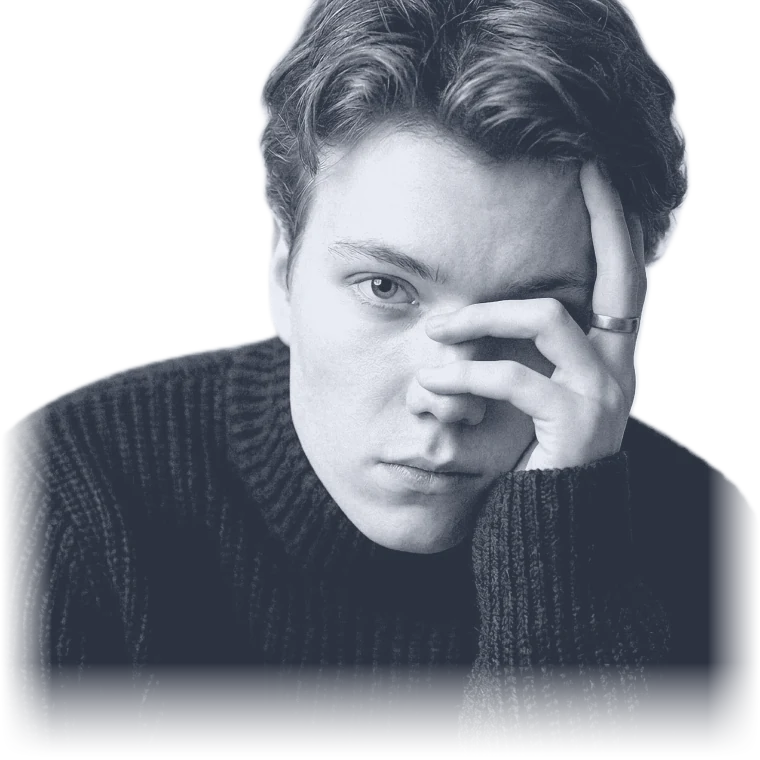
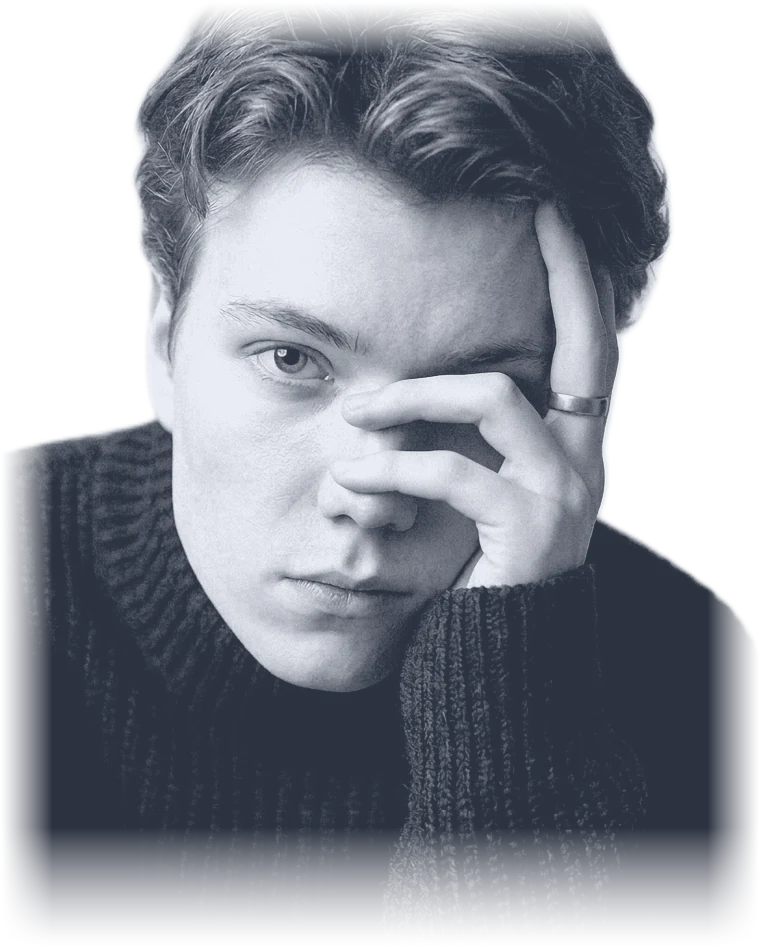
Портрет крупнее и кадром по голове, анкета — лентой под первым экраном
Квадратный кадр показывал слишком много свитера: лицо выходило
мелким, а срезанные краем исходника плечи бросались в глаза. Теперь
кадр 4:5 привязан к голове, добавлено растворение верхнего края —
в исходном фото волосы срезаны рамкой, и без этого обрез читался
ровной линией.

Анкета переехала из панели сбоку в ленту во всю ширину под первым
экраном. Панелью она делала правую колонку вдвое выше левой, и под
текстом зияла пустота; портрет занял всю колонку и стал крупнее.
Колонки ленты заданы явно — при автоподборе шесть пунктов вставали
как 5 + 1.

diff --git a/assets/css/style.css b/assets/css/style.css
@@ -327,13 +327,24 @@ a:hover { color: var(--text); }
 
 .hero__grid {
   display: grid;
-  grid-template-columns: minmax(0, 1fr) 17.5rem;
+  grid-template-columns: minmax(0, 1fr) 20rem;
   gap: clamp(1.5rem, 4vw, 3.5rem);
   align-items: start;
 }
 
+/* Портрет прижат к низу строки: так он заканчивается вровень с кнопками, а не
+   висит над пустотой. */
+.hero__grid .portrait { align-self: end; }
+
 @media (max-width: 920px) {
   .hero__grid { grid-template-columns: minmax(0, 1fr); }
+
+  /* На телефоне лицо показывается первым, до заголовка. */
+  .hero__grid .portrait {
+    order: -1;
+    align-self: start;
+    width: min(14rem, 55%);
+  }
 }
 
 .hero__name {
@@ -391,13 +402,7 @@ a:hover { color: var(--text); }
   margin-block-start: 1.9rem;
 }
 
-/* Портрет и анкета */
-
-.hero__aside {
-  display: grid;
-  gap: 1.25rem;
-  align-content: start;
-}
+/* Портрет */
 
 /* Фон у портрета вырезан, края растворяются — рамка и скругления не нужны,
    иначе он снова превращается в квадратную карточку. */
@@ -410,9 +415,9 @@ a:hover { color: var(--text); }
 .portrait::before {
   content: '';
   position: absolute;
-  inset: 6% 0 14%;
+  inset: 4% 0 12%;
   z-index: -1;
-  background: radial-gradient(58% 58% at 52% 42%, rgba(124, 124, 255, 0.22), transparent 72%);
+  background: radial-gradient(56% 56% at 52% 38%, rgba(124, 124, 255, 0.24), transparent 72%);
 }
 
 .portrait img {
@@ -421,29 +426,25 @@ a:hover { color: var(--text); }
   height: auto;
 }
 
-.factsheet {
-  border: 1px solid var(--line);
-  border-radius: 3px;
-  background: var(--panel);
-}
+/* Анкета лентой под первым экраном */
 
-.factsheet__head {
-  display: flex;
-  justify-content: space-between;
-  gap: 0.75rem;
-  padding: 0.7rem 1rem;
-  border-bottom: 1px solid var(--line);
-  font-family: var(--font-mono);
-  font-size: var(--step--2);
-  letter-spacing: 0.12em;
-  text-transform: uppercase;
-  color: var(--muted);
-}
-
-.factsheet__body {
+/* Колонки заданы явно: при автоподборе шесть пунктов вставали как 5 + 1 и
+   последний висел в отдельном ряду. */
+.facts {
   display: grid;
-  gap: 0.85rem;
-  padding: 1rem;
+  grid-template-columns: repeat(6, minmax(0, 1fr));
+  gap: 1.35rem 2rem;
+  margin-block-start: clamp(2rem, 4vw, 3rem);
+  padding-block-start: clamp(1.25rem, 3vw, 1.75rem);
+  border-block-start: 1px solid var(--line);
+}
+
+@media (max-width: 1080px) {
+  .facts { grid-template-columns: repeat(3, minmax(0, 1fr)); }
+}
+
+@media (max-width: 620px) {
+  .facts { grid-template-columns: repeat(2, minmax(0, 1fr)); }
 }
 
 .fact { display: grid; gap: 0.15rem; }

diff --git a/assets/js/app.js b/assets/js/app.js
@@ -188,22 +188,22 @@
       ]),
     ]);
 
-    var aside = el('div', { class: 'hero__aside' }, [
-      p.photo ? el('figure', { class: 'portrait' }, [
-        el('img', {
-          src: p.photo, alt: t(p.name), width: '760', height: '760',
-          decoding: 'async',
-        }),
-      ]) : null,
-      buildFactsheet(),
-    ]);
+    var portrait = p.photo ? el('figure', { class: 'portrait' }, [
+      el('img', {
+        src: p.photo, alt: t(p.name), width: '760', height: '950',
+        decoding: 'async',
+      }),
+    ]) : null;
 
     return el('section', { class: 'hero' }, [
-      el('div', { class: 'wrap hero__grid' }, [left, aside]),
+      el('div', { class: 'wrap hero__grid' }, [left, portrait]),
+      buildFacts(),
     ]);
   }
 
-  function buildFactsheet() {
+  /* Анкета лентой во всю ширину под первым экраном. Панелью сбоку она делала
+     правую колонку вдвое выше левой, и под текстом зияла пустота. */
+  function buildFacts() {
     var p = R.person;
 
     var rows = [
@@ -215,25 +215,19 @@
 
     if (CFG.showSalary) rows.push([u('factSalary'), t(p.salary)]);
 
-    return el('aside', { class: 'factsheet' }, [
-      el('div', { class: 'factsheet__head' }, [
-        el('span', { text: u('profile') }),
-        el('span', { text: t(p.updated) }),
-      ]),
-      el('div', { class: 'factsheet__body' }, rows.map(function (row) {
-        return el('div', { class: 'fact' }, [
-          el('span', { class: 'fact__key', text: row[0] }),
-          el('span', { class: 'fact__val', text: row[1] }),
-        ]);
-      }).concat([
-        el('div', { class: 'fact' }, [
-          el('span', { class: 'fact__key', text: u('factEmail') }),
-          el('span', { class: 'fact__val' }, [
-            el('a', { href: p.contacts.email.href, text: p.contacts.email.label }),
-          ]),
+    return el('div', { class: 'wrap facts' }, rows.map(function (row) {
+      return el('div', { class: 'fact' }, [
+        el('span', { class: 'fact__key', text: row[0] }),
+        el('span', { class: 'fact__val', text: row[1] }),
+      ]);
+    }).concat([
+      el('div', { class: 'fact' }, [
+        el('span', { class: 'fact__key', text: u('factEmail') }),
+        el('span', { class: 'fact__val' }, [
+          el('a', { href: p.contacts.email.href, text: p.contacts.email.label }),
         ]),
-      ])),
-    ]);
+      ]),
+    ]));
   }
 
   /* --- результаты -------------------------------------------------------- */

diff --git a/data/resume.js b/data/resume.js
@@ -26,7 +26,6 @@ window.RESUME = {
       contact: { ru: 'Контакты', en: 'Contact' },
     },
     eyebrow: { ru: 'Резюме · обновлено', en: 'CV · updated' },
-    profile: { ru: 'Анкета', en: 'Profile' },
     factCity: { ru: 'Город', en: 'Based in' },
     factFormat: { ru: 'Формат', en: 'Format' },
     factRelocation: { ru: 'Переезд', en: 'Relocation' },

diff --git a/tools/prep_portrait.py b/tools/prep_portrait.py
@@ -31,10 +31,12 @@ OUT = ROOT / "assets" / "img" / "portrait.webp"
 MODEL = Path.home() / ".u2net" / "u2net_human_seg.onnx"
 
 TARGET_W = 760          # ширина итогового файла, px (показывается вдвое меньше)
+ASPECT = 0.8            # ширина к высоте: портретный кадр 4:5
 SHADOW = (0x1b, 0x22, 0x30)   # куда уходят тени — синевато-тёмный из палитры
 HIGHLIGHT = (0xe9, 0xec, 0xf4)  # куда уходят света
 FADE = 0.13             # доля высоты снизу, которая растворяется в фоне
 SIDE_FADE = 0.07        # то же по бокам: плечи упираются в края кадра
+TOP_FADE = 0.06         # и сверху: в исходнике волосы срезаны краем кадра
 
 
 def cutout(path: Path) -> tuple[np.ndarray, np.ndarray]:
@@ -84,6 +86,34 @@ def crop(gray: np.ndarray, mask: np.ndarray) -> tuple[np.ndarray, np.ndarray]:
     return gray[y0:y1, x0:x1], mask[y0:y1, x0:x1]
 
 
+def reframe(gray: np.ndarray, mask: np.ndarray) -> tuple[np.ndarray, np.ndarray]:
+    """Портретный кадр 4:5, привязанный к голове.
+
+    Квадрат из исходника показывал слишком много свитера: лицо получалось
+    мелким, а срезанные краем кадра плечи бросались в глаза. Кадр по голове
+    читается как обычный портрет, а не как вырезанная фигура без плеч.
+    """
+    height, width = gray.shape
+    solid = mask > 0.5
+
+    rows = np.where(solid.any(axis=1))[0]
+    top = int(rows[0]) if len(rows) else 0
+
+    band = solid[top:top + max(1, int(height * 0.35))]
+    xs = np.where(band.any(axis=0))[0]
+    face_x = int((xs[0] + xs[-1]) / 2) if len(xs) else width // 2
+
+    new_h = height
+    new_w = int(round(new_h * ASPECT))
+    if new_w > width:
+        new_w = width
+        new_h = int(round(new_w / ASPECT))
+
+    x0 = int(np.clip(face_x - new_w // 2, 0, width - new_w))
+    y0 = int(np.clip(top - int(new_h * 0.04), 0, height - new_h))
+    return gray[y0:y0 + new_h, x0:x0 + new_w], mask[y0:y0 + new_h, x0:x0 + new_w]
+
+
 def duotone(gray: np.ndarray) -> np.ndarray:
     """Серое в две краски палитры. Заодно поднимает тени, иначе тёмный свитер
     пропадает на почти чёрном полотне страницы."""
@@ -105,7 +135,7 @@ def main() -> int:
     if not source.exists():
         raise SystemExit(f"Не найден файл {source}")
 
-    gray, mask = crop(*cutout(source))
+    gray, mask = reframe(*crop(*cutout(source)))
 
     height = round(gray.shape[0] * TARGET_W / gray.shape[1])
     gray = cv2.resize(gray, (TARGET_W, height), interpolation=cv2.INTER_AREA)
@@ -120,6 +150,9 @@ def main() -> int:
     side = (np.linspace(0.0, 1.0, fade_cols) ** 1.2)
     mask[:, :fade_cols] *= side[None, :]
     mask[:, TARGET_W - fade_cols:] *= side[::-1][None, :]
+
+    top_rows = max(1, int(height * TOP_FADE))
+    mask[:top_rows, :] *= (np.linspace(0.0, 1.0, top_rows) ** 1.4)[:, None]
 
     rgba = np.dstack([duotone(gray), (mask * 255).astype(np.uint8)])
 
